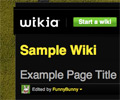
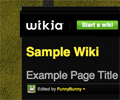
more work on theme designer
git-svn-id: svn+ssh://svn.wikia-code.com/svn/wikia/trunk@26643 e846bd91-c042-42a7-a218-4b65e2c1904d

diff --git a/extensions/wikia/ThemeDesigner/js/ThemeDesigner.js b/extensions/wikia/ThemeDesigner/js/ThemeDesigner.js
@@ -49,20 +49,39 @@ var ThemeDesigner = {
 
 	themeTabInit: function() {
 
+		var slideBy = 760;
+		var slideMax = -Math.floor($("#ThemeTab .slider ul li").length / 5) * 760;
+
 		// click handler for next and previous arrows in theme slider
 		$("#ThemeTab .previous, #ThemeTab .next").click(function(event) {
 			event.preventDefault();
 			var list = $("#ThemeTab .slider ul");
 			var arrow = $(this);
+			var slideTo = null;
 
 			// prevent disabled clicks
 			if(arrow.hasClass("disabled")) {
 				return;
 			}
 
-			var slideTo = (arrow.hasClass("previous")) ? 0 : -760;
+			// slide
+			if (arrow.hasClass("previous")) {
+				slideTo = parseInt(list.css("margin-left")) + slideBy;	
+			} else {
+				slideTo = parseInt(list.css("margin-left")) - slideBy;
+			}
 			list.animate({marginLeft: slideTo}, "slow");
-			$("#ThemeTab .next, #ThemeTab .previous").toggleClass("disabled");
+			
+			// calculate which buttons should be enabled
+			if (slideTo == slideMax) {
+				$("#ThemeTab .next").addClass("disabled");
+				$("#ThemeTab .previous").removeClass("disabled");
+			} else if (slideTo == 0) {
+				$("#ThemeTab .next").removeClass("disabled");
+				$("#ThemeTab .previous").addClass("disabled");
+			} else {
+				$("#ThemeTab .next, #ThemeTab .previous").removeClass("disabled");
+			}
 		});
 
 		// click handler for themes thumbnails
@@ -100,6 +119,30 @@ var ThemeDesigner = {
 			ThemeDesigner.set("wordmark-text", $("#wordmark-edit").find('input[type="text"]').val());
 			$("#wordmark, #wordmark-edit").toggle();
 		});
+		
+		//graphic wordmark clicking
+		$("#WordmarkTab").find(".graphic").find(".preview").find(".wordmark").click(function() {
+			ThemeDesigner.set("wordmark-type", "graphic");
+		});
+		
+		//grapic wordmark button
+		$("#WordmarkTab").find(".graphic").find(".preview").find("a").click(function(event) {
+			event.preventDefault();
+			ThemeDesigner.set("wordmark-type", "text");
+		});
+	},
+
+	wordmarkShield: function() {
+		if (ThemeDesigner.settings["wordmark-type"] == "graphic") {
+			$("#wordmark-shield")
+			.css({
+				height: $("#wordmark-shield").parent().outerHeight(true),
+				width: $("#wordmark-shield").parent().outerWidth(true)
+			})
+			.show();
+		} else {
+			$("#wordmark-shield").hide();		
+		}
 	},
 
 	toolBarInit: function() {
@@ -206,7 +249,7 @@ var ThemeDesigner = {
 			reloadCSS = true;
 		}
 
-		if(setting == "wordmark-font" || setting == "wordmark-size" || setting == "wordmark-text") {
+		if(setting == "wordmark-font" || setting == "wordmark-size" || setting == "wordmark-text" || setting == "wordmark-type") {
 			updateSkinPreview = true;
 		}
 
@@ -231,7 +274,7 @@ var ThemeDesigner = {
 
 				ThemeDesigner.set("wordmark-image-name", response.wordmarkImageName);
 				ThemeDesigner.set("wordmark-image-url", response.wordmarkImageUrl);
-
+				ThemeDesigner.set("wordmark-type", "graphic");
 			}
 		}
 	},
@@ -284,8 +327,15 @@ var ThemeDesigner = {
 		var clickedLink = $(this);
 		var command = clickedLink.attr("rel");
 
+		//select the correct tab
 		clickedLink.parent().addClass("selected").siblings().removeClass("selected");
+		//show the correct panel
 		$("#" + command).show().siblings("section").hide();
+
+		//hide wordmark text side if necessary
+		if (command == "WordmarkTab") {
+			ThemeDesigner.wordmarkShield();
+		}
 	},
 
 	resizeIframe: function() {
@@ -328,13 +378,25 @@ var ThemeDesigner = {
 		$("#wordmark-size").find('[value="' + ThemeDesigner.settings["wordmark-size"] + '"]').attr("selected", "selected");
 
 		// wordmark image
-		$("#WordmarkTab").find(".graphic").find(".preview").attr("src", ThemeDesigner.settings["wordmark-image-url"]);
+		$("#WordmarkTab").find(".graphic").find(".wordmark").attr("src", ThemeDesigner.settings["wordmark-image-url"]);
+		
+		if (ThemeDesigner.settings["wordmark-type"] == "graphic") {
+			$("#WordmarkTab").find(".graphic")
+				.find(".wordmark").addClass("selected").end()
+				.find("a").css("display", "inline-block");
+			ThemeDesigner.wordmarkShield();
+		} else {
+			$("#WordmarkTab").find(".graphic")
+				.find(".wordmark").removeClass("selected").end()
+				.find("a").hide();
+			ThemeDesigner.wordmarkShield();			
+		}
 
 		if(reloadCSS) {
 
 			$().log('applySettings, reloadCSS');
 
-			var sass = "/__sass/skins/oasis/css/oasis.scss/128263333333333333333127999/";
+			var sass = "/__sass/skins/oasis/css/oasis.scss/33333/";
 			sass += "color-body=" + escape(ThemeDesigner.settings["color-body"]);
 			sass += "&color-page=" + escape(ThemeDesigner.settings["color-page"]);
 			sass += "&color-buttons=" + escape(ThemeDesigner.settings["color-buttons"]);
@@ -348,12 +410,26 @@ var ThemeDesigner = {
 
 			$().log('applySettings, updateSkinPreview');
 
-			$("#PreviewFrame").contents().find("#WikiHeader").find(".wordmark")
-				.removeClass()
-				.addClass("wordmark")
-				.addClass(ThemeDesigner.settings["wordmark-font"])
-				.addClass(ThemeDesigner.settings["wordmark-size"])
-				.find("a").text(ThemeDesigner.settings["wordmark-text"])
+			if (ThemeDesigner.settings["wordmark-type"] == "text") {
+				$("#PreviewFrame").contents().find("#WikiHeader").find(".wordmark")
+					.css({
+						"background-image": "none",
+					})
+					.removeClass()
+					.addClass("wordmark")
+					.addClass(ThemeDesigner.settings["wordmark-font"])
+					.addClass(ThemeDesigner.settings["wordmark-size"])
+					.find("a")
+						.text(ThemeDesigner.settings["wordmark-text"])
+						.css("display", "inline");
+			} else if (ThemeDesigner.settings["wordmark-type"] == "graphic") {
+				$("#PreviewFrame").contents().find("#WikiHeader").find(".wordmark")
+					.addClass("graphic")
+					.css({
+						"background-image": "url(" + ThemeDesigner.settings["wordmark-image-url"] + ")",
+					})
+					.find("a").hide()
+			}
 		}
 	},
 

diff --git a/extensions/wikia/ThemeDesigner/css/WordmarkTab.scss b/extensions/wikia/ThemeDesigner/css/WordmarkTab.scss
@@ -1,6 +1,33 @@
+@import "../../../../skins/oasis/css/mixins/box-shadow";
+@import "../../../../skins/oasis/css/mixins/opacity";
+
 .WordmarkTab {
 	.graphic {
 		padding-left: 40px;
+		.preview {
+			margin-top: 10px;
+			.wordmark {
+				cursor: pointer;
+				&.selected {
+					@include box-shadow(0px, 0px, 5px, #72ADD5);
+					border-color: #72ADD5;
+					cursor: default;
+				}
+			}
+			a {
+				background: #EEE url(/extensions/wikia/ThemeDesigner/images/void_button.png) 50% 40px no-repeat;
+				border: 1px solid #CCC;
+				color: #666;
+				display: none;
+				font-size: 11px;
+				height: 55px;
+				margin-left: 5px;
+				padding: 5px;
+				text-align: center;
+				vertical-align: top;
+				width: 55px;
+			}
+		}
 	}
 	.controls {
 		@include clearfix;
@@ -18,5 +45,13 @@
 	}
 	#wordmark-edit {
 		display: none;
+	}
+	#wordmark-shield {
+		@include opacity(75);
+		background: #FFF;
+		display: none;
+		left: 0;
+		position: absolute;
+		top: 0;
 	}
 }

diff --git a/skins/oasis/css/mixins/_forms.scss b/skins/oasis/css/mixins/_forms.scss
@@ -1,6 +1,14 @@
+@import "../core/color";
+@import "gradient";
+
+$color-input-field: #FFF;
+@if lightness($color-page) < 50 {
+	$color-input-field: mix($color-page, #FFF, 75%);
+}
+$color-input-field-shadow: mix($color-input-field, #000, 95%);
+
 @mixin input-field {
-	background-image: -moz-linear-gradient(top, rgba(#000, .05) 0%, rgba(#000, 0) 40%);
-	background-image: -webkit-gradient(linear, 0% 0%, 0% 100%, color-stop(0, rgba(#000, .05)), color-stop(.4, rgba(#000, 0)));
+	@include linear-gradient($color-input-field, top, $color-input-field-shadow, 0%, $color-input-field, 40%);
 	border: 1px solid $color-page-border;
 	font-size: 15px;
 	height: 19px;

diff --git a/extensions/wikia/ThemeDesigner/js/ThemeDesignerPreview.js b/extensions/wikia/ThemeDesigner/js/ThemeDesignerPreview.js
@@ -15,6 +15,10 @@ var ThemeDesignerPreview = {
 			
 		$("#WikiaArticle .thumbinner").append('<div class="picture-attribution"><img width="16" height="16" class="avatar" src="/extensions/wikia/ThemeDesigner/images/td-avatar.jpg">Added by <a>FunnyBunny</a></div>');
 		$("a.new").removeClass("new");
+		
+		//no floating footer on preview
+		$("#WikiaFooter").children(".toolbar").removeClass("float");
+		$(window).unbind("scroll");
 	},
 
 	loadSASS: function(url) {

diff --git a/extensions/wikia/ThemeDesigner/css/ThemeTab.scss b/extensions/wikia/ThemeDesigner/css/ThemeTab.scss
@@ -35,6 +35,8 @@ $color-selected-thumbnail: #72ADD5;
 		border: 1px solid $color-borders;
 		cursor: pointer;
 		display: block;
+		height: 100px;
+		width: 120px;
 	}
 	.chevron {
 		border-style: solid;

diff --git a/skins/oasis/css/core/_WikiHeader.scss b/skins/oasis/css/core/_WikiHeader.scss
@@ -7,6 +7,12 @@
 	.wordmark {
 		@include wordmark;
 		color: $color-links;
+		&.graphic {
+			height: 65px;
+			a {
+				display: none;
+			}
+		}
 	}
 	h1:before, 
 	.shadow-mask {

diff --git a/extensions/wikia/ThemeDesigner/templates/ThemeDesigner_WordmarkTab.php b/extensions/wikia/ThemeDesigner/templates/ThemeDesigner_WordmarkTab.php
@@ -4,7 +4,7 @@
 
 		<ul class="controls">
 			<li>
-				<button class="secondary" id="wordmark-edit-button"><img src="<?= $wgStylePath ?>/common/blank.gif"> Edit</button>
+				<button class="secondary" id="wordmark-edit-button"><img src="<?= $wgExtensionsPath ?>/wikia/ThemeDesigner/images/secondary_edit.png"> Edit</button>
 			</li>
 			<li>
 				<h2>font</h2>
@@ -39,6 +39,8 @@
 			<button>Save</button>
 		</div>
 
+		<div id="wordmark-shield"></div>
+
 	</fieldset>
 	<fieldset class="graphic">
 		<h1><?= wfMsg('themedesigner-graphic-wordmark') ?></h1>
@@ -48,8 +50,11 @@
 			<input id="WordMarkUploadFile" name="wpUploadFile" type="file" />
 			<input type="submit" value="Upload" onclick="return ThemeDesigner.wordmarkUpload(event);"/> 250x65 pixels (only .png files)
 		</form>
-		
-		<img src="<?= $wgStylePath ?>/common/blank.gif" class="preview">
+
+		<div class="preview">
+			<img src="<?= $wgStylePath ?>/common/blank.gif" class="wordmark">
+			<a href="#">Don't use a graphic</a>
+		</div>
 
 	</fieldset>
 </section>

diff --git a/extensions/wikia/Oasis/Oasis_setup.php b/extensions/wikia/Oasis/Oasis_setup.php
@@ -59,8 +59,8 @@ $wgOasisThemes = array(
 		"color-body" => "#003816",
 		"color-page" => "#DFDBC3",
 		"color-buttons" => "#C5A801",
-		"color-links" => "#9C030E",
-		"background-image" => "jade.jpg",
+		"color-links" => "#BE6202",
+		"background-image" => "",
 		"background-tiled" => false
 	),
 	'sky' => array(
@@ -79,12 +79,20 @@ $wgOasisThemes = array(
 		"background-image" => "moonlight.jpg",
 		"background-tiled" => false
 	),
-	'obsession' => array(
+	'opulence' => array(
 		"color-body" => "#7A0146",
 		"color-page" => "#36001F",
 		"color-buttons" => "#DE1C4E",
 		"color-links" => "#F97EC4",
-		"background-image" => "obsession.jpg",
+		"background-image" => "opulence.png",
+		"background-tiled" => true
+	),
+	'obsession' => array(
+		"color-body" => "#191919",
+		"color-page" => "#1C0400",
+		"color-buttons" => "#891100",
+		"color-links" => "#FF6F1E",
+		"background-image" => "",
 		"background-tiled" => true
 	),
 	'carbon' => array(

diff --git a/skins/oasis/modules/WikiHeaderModule.class.php b/skins/oasis/modules/WikiHeaderModule.class.php
@@ -9,6 +9,10 @@ class WikiHeaderModule extends Module {
 	var $menuNodes;
 	var $editURL;
 
+	var $wordmarkType;
+	var $wordmarkSize;
+	var $wordmarkStyle;
+
 	var $canEdit;
 
 	private function parseMonacoSidebarToOasisNavigation($text) {
@@ -44,6 +48,14 @@ class WikiHeaderModule extends Module {
 		global $wgOut, $wgCityId, $wgUser;
 		// Moved to StaticChute.
 		//$wgOut->addScript('<script src="/skins/oasis/js/WikiHeader.js"></script>');
+
+		$themeSettings = new ThemeSettings();
+		$this->wordmarkType = $themeSettings->get("wordmark-type");
+		$this->wordmarkSize = $themeSettings->get("wordmark-size");
+		
+		if ($this->wordmarkType == "graphic") {
+			$this->wordmarkStyle = 'style="background: url('. $themeSettings->get("wordmark-image-url") .') no-repeat"';
+		}
 
 		$this->mainPageURL = Title::newMainPage()->getLocalURL();
 		$service = new NavigationService();

diff --git a/extensions/wikia/ThemeDesigner/ThemeSettings.class.php b/extensions/wikia/ThemeDesigner/ThemeSettings.class.php
@@ -38,10 +38,11 @@ class ThemeSettings {
 		$settings['wordmark-text'] = $wgSitename;
 		$settings['wordmark-color'] = $settings['color-links'];
 		$settings['wordmark-font'] = '';
-		$settings['wordmark-font-size'] = '';
+		$settings['wordmark-font-size'] = 'medium';
 		$settings['wordmark-image-url'] = '';
 		$settings['wordmark-image-name'] = '';
-
+		$settings['wordmark-type'] = "text";
+		
 		// main page banner
 		$settings['banner-image'] = false;
 		$settings['banner-image-revision'] = false;

diff --git a/skins/oasis/modules/templates/WikiHeader_Index.php b/skins/oasis/modules/templates/WikiHeader_Index.php
@@ -1,5 +1,5 @@
 <header id="WikiHeader" class="WikiHeader">
-	<h1 class="wordmark">
+	<h1 class="wordmark <?= $wordmarkSize ?> <?= $wordmarkType ?>" <?= $wordmarkStyle ?>>
 		<a accesskey="z" href="<?= htmlspecialchars($mainPageURL) ?>"><?= htmlspecialchars($wgSitename) ?></a>
 	</h1>
 	<nav>
